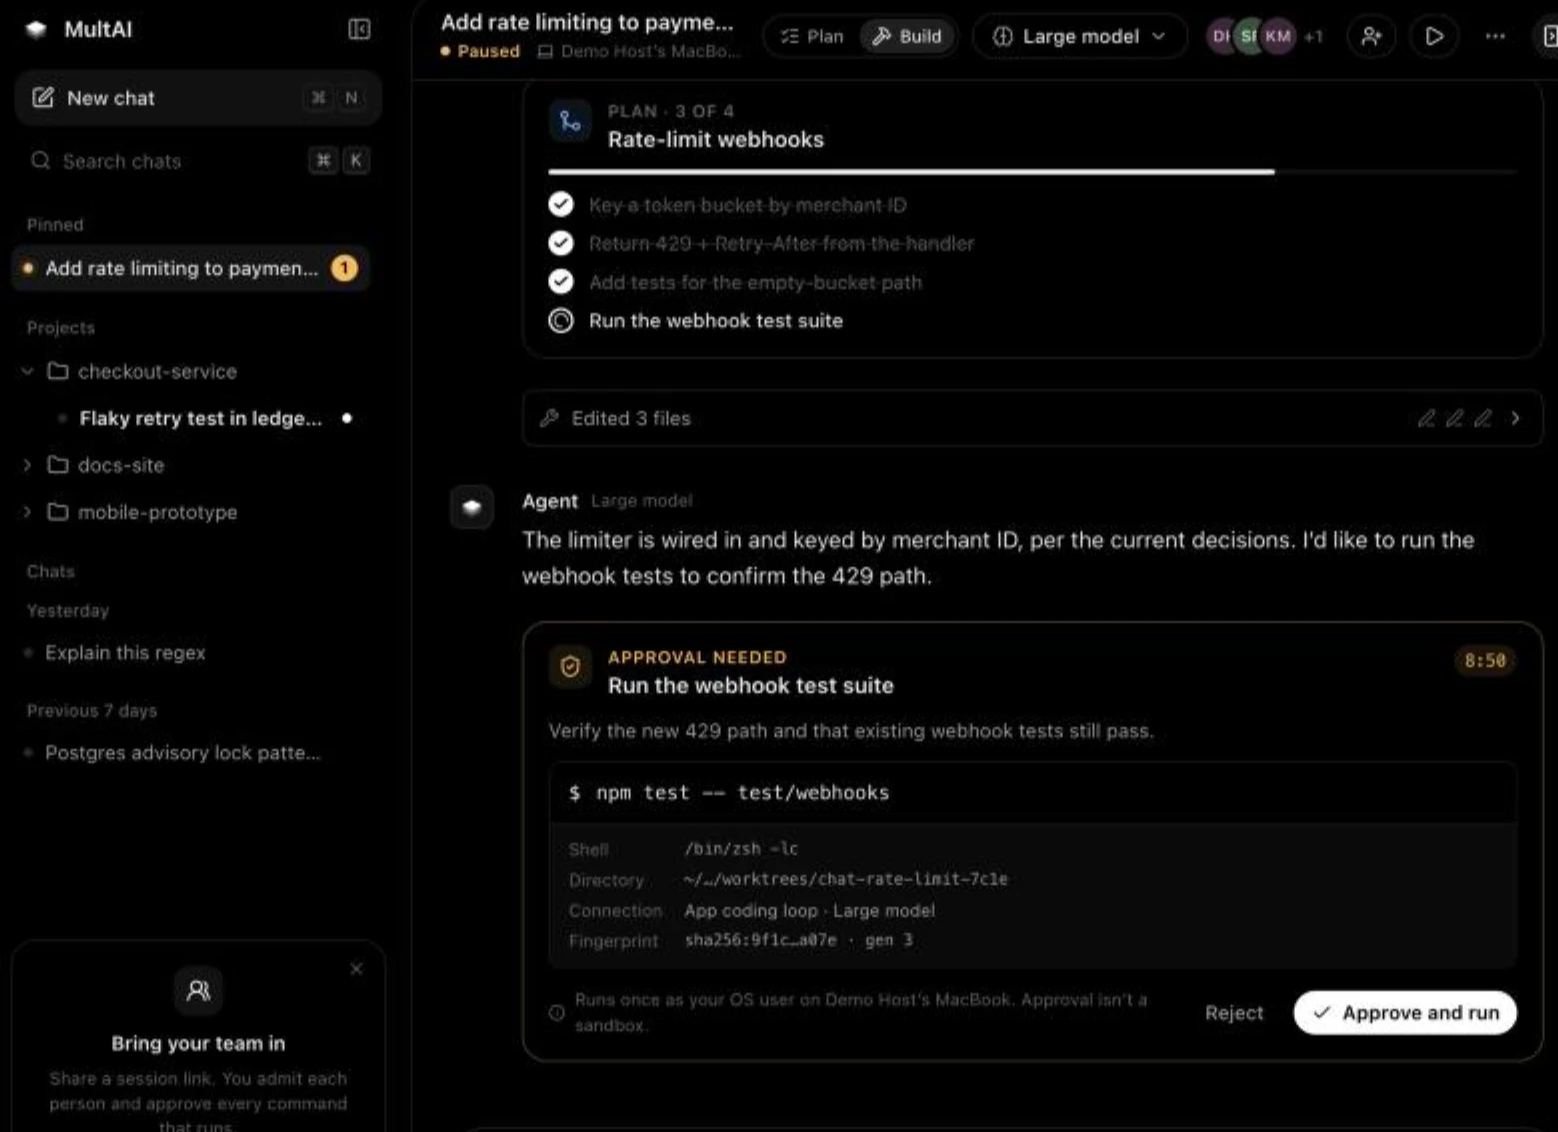
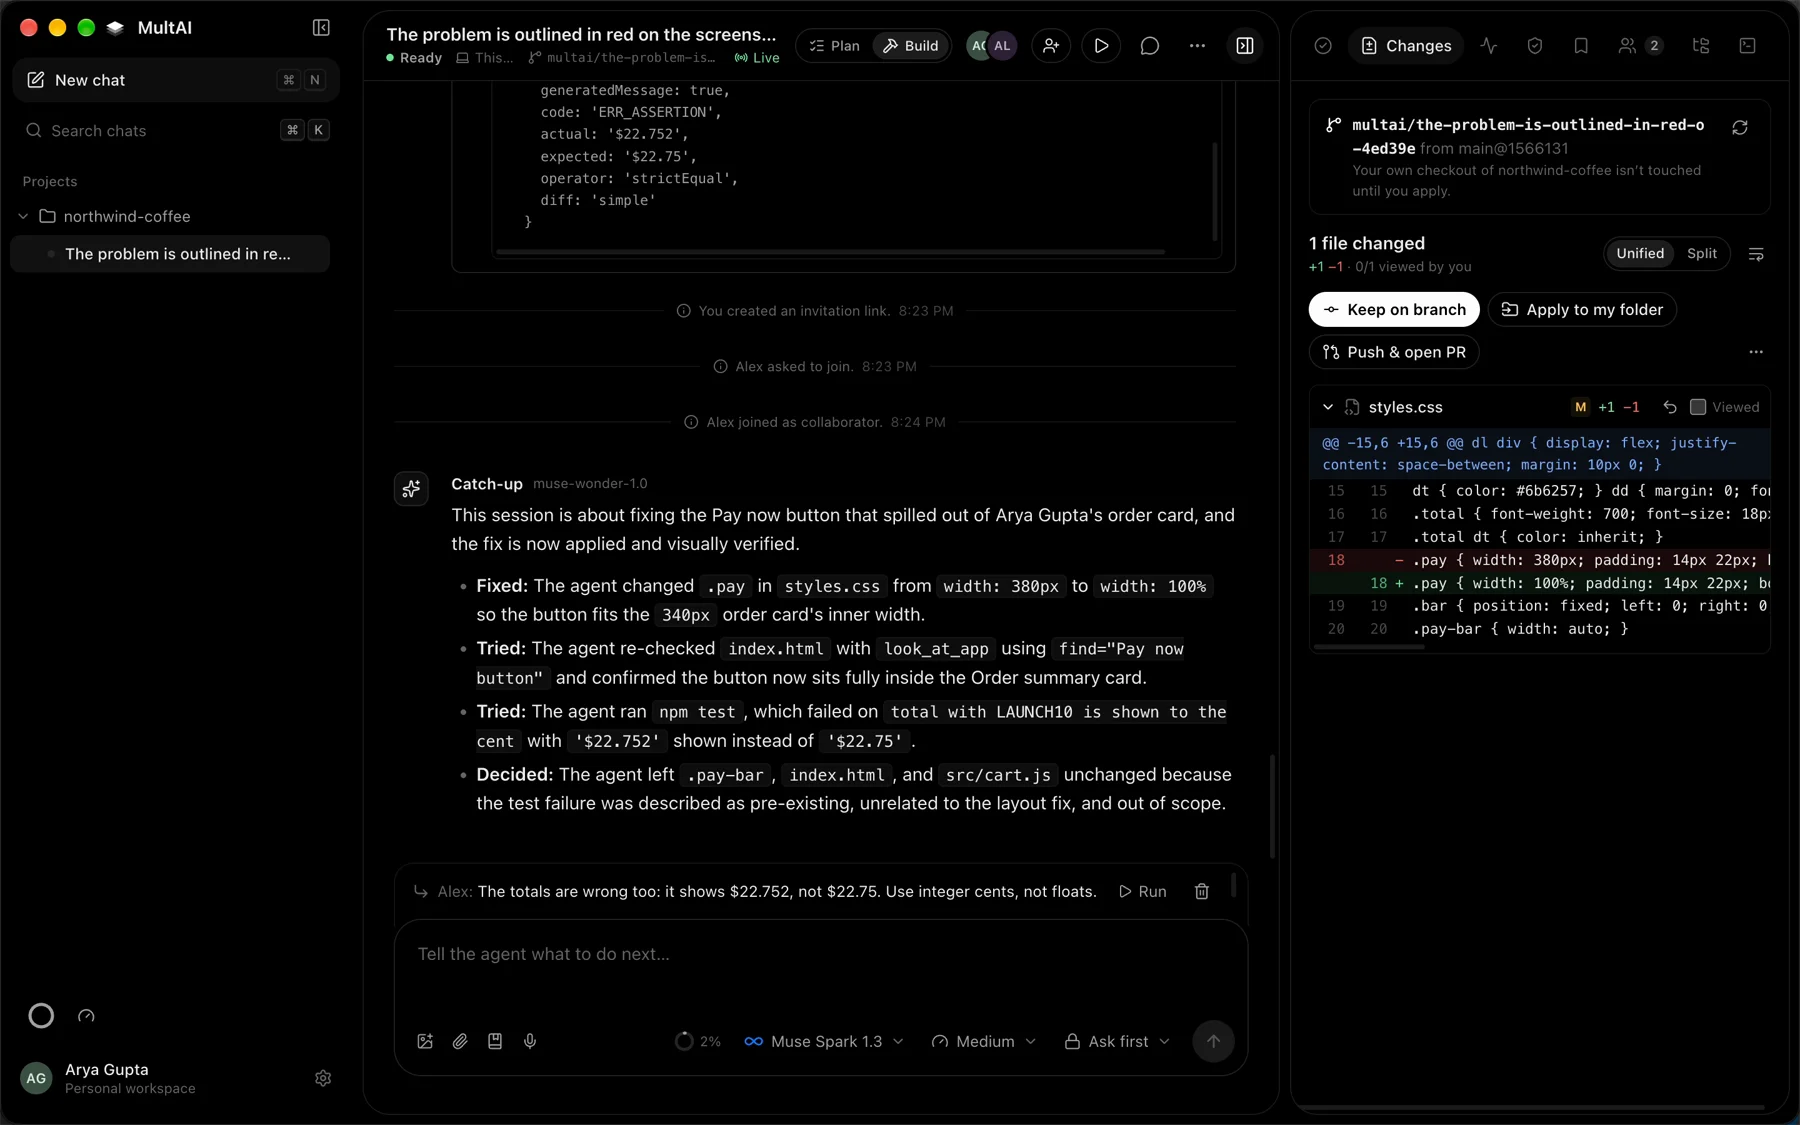
Live site: macOS, Android and browser downloads, current features

diff --git a/src/components/Sections.tsx b/src/components/Sections.tsx
@@ -1,20 +1,20 @@
 import { useEffect, useState, type ReactNode } from 'react';
-import { Bookmark, Branch, Check, Download, Message, People } from './Icons';
-import { LogoMark } from './Logo';
+import { Check, Download, Globe, Laptop, Layers, People, Phone, Target } from './Icons';
+import { ANDROID_APK, MAC_DMG, WEB_APP } from './links';
 
 const FEATURES: { icon: ReactNode; title: string; body: string }[] = [
-  { icon: <People />, title: 'Join mid-task', body: 'See the conversation, decisions and current diff the moment you join.' },
-  { icon: <Message />, title: 'Instruct or discuss', body: 'Talk to the agent, or just to your team. Discussion never reaches the agent by accident.' },
-  { icon: <Bookmark />, title: 'Decisions that stick', body: 'Save what the team agreed on. The agent follows it for everyone.' },
-  { icon: <Branch />, title: 'A private worktree per chat', body: 'Every chat works in its own copy. Your checkout is never touched.' },
+  { icon: <People />, title: 'Join from a browser', body: 'Teammates open a link. No install, no API key. Muse Wonder writes them a catch-up brief.' },
+  { icon: <Target />, title: 'Point at the bug', body: 'Click what’s broken and SAM 3.1 outlines it. The agent checks its own fix on the real page.' },
+  { icon: <Layers />, title: 'Agents in parallel', body: '/split runs several agents, each in its own worktree. Switch models and the context comes along.' },
+  { icon: <Phone />, title: 'Control it from your phone', body: 'Pair once, then send prompts and approve each step from Android or a phone browser.' },
 ];
 
 export function Features() {
   return (
     <section id="features" className="section">
       <div className="container">
-        <h2 style={{ maxWidth: 640 }}>Built for working with an agent, together.</h2>
-        <p className="section-lede">Join a teammate’s task without making them start over.</p>
+        <h2 style={{ maxWidth: 640 }}>Get unstuck together.</h2>
+        <p className="section-lede">Your teammate joins the session itself, not a pile of screenshots.</p>
         <div className="features">
           {FEATURES.map((f) => (
             <article key={f.title} className="feature">
@@ -79,7 +79,7 @@ export function Approvals() {
           <ul className="checks">
             <li><Check />One approval, one exact command</li>
             <li><Check />Change an argument, approve again</li>
-            <li><Check />Plan mode blocks writes and commands</li>
+            <li><Check />Teammates’ directions wait for you too</li>
           </ul>
         </div>
         <ApprovalCard />
@@ -89,9 +89,9 @@ export function Approvals() {
 }
 
 const OPTIONS = [
-  { title: 'Provider account', body: 'Sign in with a subscription you already pay for.' },
-  { title: 'API key', body: 'Stored encrypted on your computer, never shown to teammates.' },
-  { title: 'Set up later', body: 'Join sessions and talk with your team right away.' },
+  { title: 'Meta Muse models', body: 'Muse Spark, Muse Wonder and SAM 3.1 through the Meta Model API.' },
+  { title: 'The plan you already pay for', body: 'Your ChatGPT plan, or an OpenAI, Claude, Kimi or compatible API key.' },
+  { title: 'Local models', body: 'Muse Glimmer in Ollama or LM Studio. Nothing leaves your computer.' },
 ];
 
 export function Connect() {
@@ -113,15 +113,27 @@ export function Connect() {
   );
 }
 
+const DOWNLOADS = [
+  { icon: <Laptop />, title: 'macOS', body: 'Apple silicon. On first open, allow it in System Settings → Privacy & Security.', href: MAC_DMG, cta: 'Download', download: true },
+  { icon: <Phone />, title: 'Android', body: 'Follow your sessions, pair as owner, approve from anywhere.', href: ANDROID_APK, cta: 'Get the APK', download: false },
+  { icon: <Globe />, title: 'Browser', body: 'Join a session from a link, on any phone or computer.', href: WEB_APP, cta: 'Open', download: false },
+];
+
 export function GetApp() {
   return (
     <section id="download" className="section cta">
-      <div className="container cta-inner">
-        <span className="app-icon"><LogoMark size={40} /></span>
+      <div className="container">
         <h2>Start a session together.</h2>
-        <p>Everything it needs comes bundled. No setup beyond signing in.</p>
-        <a className="btn btn-primary" href="#download"><Download />Download for macOS</a>
-        <span className="fine">Windows · Linux</span>
+        <div className="downloads">
+          {DOWNLOADS.map((d) => (
+            <a key={d.title} className="download" href={d.href} {...(d.download ? { download: true } : {})}>
+              <span className="feature-icon">{d.icon}</span>
+              <strong>{d.title}</strong>
+              <span>{d.body}</span>
+              <span className="btn btn-secondary btn-sm download-cta">{d.download && <Download size={14} />}{d.cta}</span>
+            </a>
+          ))}
+        </div>
       </div>
     </section>
   );

diff --git a/src/components/Hero.tsx b/src/components/Hero.tsx
@@ -1,14 +1,15 @@
 import type { CSSProperties, ReactNode } from 'react';
-import { Check, Download, Scale } from './Icons';
+import { Check, Download, Phone, Target } from './Icons';
+import { ANDROID_APK, MAC_DMG } from './links';
 
 type Chip = { style: CSSProperties; icon: ReactNode; title: string; sub: ReactNode };
 
 // Teammate activity floating around the headline; decorative, hidden on narrow screens.
 const CHIPS: Chip[] = [
-  { style: { left: 40, top: 40, rotate: '-4deg' }, icon: <span className="avatar avatar-sk">SK</span>, title: 'Sam joined', sub: 'as collaborator' },
+  { style: { left: 40, top: 40, rotate: '-4deg' }, icon: <span className="avatar avatar-sk">AL</span>, title: 'Alex joined', sub: 'from a browser' },
   { style: { right: 30, top: 20, rotate: '5deg', animationDelay: '-2s' }, icon: <span className="chip-icon is-ok"><Check /></span>, title: 'Approved', sub: <span className="mono">npm test</span> },
-  { style: { left: 0, top: 250, rotate: '3deg', animationDelay: '-4s' }, icon: <span className="chip-icon"><Scale /></span>, title: 'Decision saved', sub: 'Limit by merchant ID' },
-  { style: { right: 0, top: 270, rotate: '-3deg', animationDelay: '-5.5s' }, icon: <span className="avatar avatar-km">KM</span>, title: 'Kai is typing', sub: 'Team discussion' },
+  { style: { left: 0, top: 250, rotate: '3deg', animationDelay: '-4s' }, icon: <span className="chip-icon"><Target /></span>, title: 'SAM 3.1', sub: 'found the Pay button' },
+  { style: { right: 0, top: 270, rotate: '-3deg', animationDelay: '-5.5s' }, icon: <span className="chip-icon"><Phone /></span>, title: 'Approved from phone', sub: 'styles.css' },
 ];
 
 export function Hero() {
@@ -27,22 +28,19 @@ export function Hero() {
           ))}
 
           <div className="hero-copy">
-            <span className="pill"><span className="pill-dot" />Shared AI coding sessions</span>
+            <span className="pill"><span className="pill-dot" />Built on Meta’s Muse models</span>
             <h1>One coding agent.<br />The whole team.</h1>
-            <p className="lede">Work on the same AI coding session together. Your teammates see everything. Your code and commands stay on your computer.</p>
+            <p className="lede">Bring a teammate into your AI coding session. They see everything and can steer the agent, and you approve every change. Your code stays on your computer.</p>
             <div className="actions">
-              <a className="btn btn-primary" href="#download"><Download />Download for macOS</a>
-              <a className="btn btn-secondary" href="#features">See how it works</a>
+              <a className="btn btn-primary" href={MAC_DMG} download><Download />Download for macOS</a>
+              <a className="btn btn-secondary" href={ANDROID_APK}><Phone />Get the Android app</a>
             </div>
-            <span className="fine">Also for Windows and Linux</span>
+            <span className="fine">macOS on Apple silicon · Android · any browser</span>
           </div>
         </div>
 
         <div className="window">
-          <div className="window-bar" aria-hidden="true">
-            <span className="window-dot" /><span className="window-dot" /><span className="window-dot" />
-          </div>
-          <img src="/app.webp" width={1558} height={1132} alt="The MultAI app: a shared session where the agent asks the host to approve running the webhook test suite" />
+          <img src="/app.webp" width={1800} height={1125} alt="MultAI: a teammate's direction waits for the host under a Muse Wonder catch-up brief, next to the live diff" />
         </div>
       </div>
     </section>

diff --git a/src/styles.css b/src/styles.css
@@ -79,7 +79,7 @@ h1, h2, h3, p { margin: 0; }
 .avatar-km { background: #4a2f45; color: #f0d6e8; }
 
 /* App window */
-.window { margin-top: 72px; border-radius: 16px 16px 0 0; border: 1px solid var(--border-strong); border-bottom: 0; background: var(--bg); overflow: hidden; }
+.window { margin-top: 72px; border-radius: 16px 16px 0 0; border: 1px solid var(--border-strong); border-bottom: 0; box-shadow: 0 -30px 120px -40px rgba(255, 255, 255, 0.12); background: var(--bg); overflow: hidden; }
 .window-bar { display: flex; align-items: center; gap: 8px; height: 38px; padding: 0 14px; border-bottom: 1px solid var(--border); }
 .window-dot { width: 11px; height: 11px; border-radius: 50%; background: var(--border-strong); }
 .window img { display: block; width: 100%; height: auto; }
@@ -125,3 +125,10 @@ h1, h2, h3, p { margin: 0; }
 
 .footer { border-top: 1px solid var(--border); }
 .footer-inner { display: flex; flex-wrap: wrap; gap: 16px; justify-content: space-between; align-items: center; padding-top: 24px; padding-bottom: 24px; font-size: 13px; color: var(--text-2); }
+
+.downloads { margin-top: 48px; display: grid; grid-template-columns: repeat(auto-fit, minmax(240px, 1fr)); gap: 16px; text-align: left; }
+.download { padding: 28px; border-radius: 20px; border: 1px solid var(--border-strong); display: grid; gap: 10px; align-content: start; }
+.download:hover { background: var(--surface); }
+.download strong { font-size: 18px; font-weight: 600; }
+.download > span:not(.feature-icon):not(.download-cta) { font-size: 14px; line-height: 1.55; color: var(--text-2); }
+.download-cta { justify-self: start; margin-top: 8px; gap: 6px; }

diff --git a/src/components/Icons.tsx b/src/components/Icons.tsx
@@ -29,3 +29,18 @@ export const Bookmark = () => (
 export const Branch = () => (
   <Icon><circle cx="6" cy="6" r="2.5" /><circle cx="6" cy="18" r="2.5" /><circle cx="18" cy="9" r="2.5" /><path d="M6 8.5v7" /><path d="M18 11.5c0 3-3 4-9.5 5" /></Icon>
 );
+export const Laptop = () => (
+  <Icon><rect x="4" y="5" width="16" height="11" rx="1.5" /><path d="M2.5 19h19" /></Icon>
+);
+export const Phone = () => (
+  <Icon><rect x="7" y="2.5" width="10" height="19" rx="2.5" /><path d="M11 18.5h2" /></Icon>
+);
+export const Globe = () => (
+  <Icon><circle cx="12" cy="12" r="9" /><path d="M3 12h18" /><path d="M12 3c2.5 2.6 3.7 5.6 3.7 9s-1.2 6.4-3.7 9c-2.5-2.6-3.7-5.6-3.7-9S9.5 5.6 12 3z" /></Icon>
+);
+export const Target = () => (
+  <Icon><circle cx="12" cy="12" r="8" /><circle cx="12" cy="12" r="3" /><path d="M12 1.5v3M12 19.5v3M1.5 12h3M19.5 12h3" /></Icon>
+);
+export const Layers = () => (
+  <Icon><path d="m12 3 9 5-9 5-9-5z" /><path d="m3 13 9 5 9-5" /></Icon>
+);

diff --git a/src/App.tsx b/src/App.tsx
@@ -1,6 +1,7 @@
 import { Hero } from './components/Hero';
 import { Wordmark } from './components/Logo';
 import { Approvals, Connect, Features, GetApp } from './components/Sections';
+import { GITHUB } from './components/links';
 
 export function App() {
   return (
@@ -10,7 +11,7 @@ export function App() {
         <nav className="nav-links" aria-label="Main">
           <a href="#features">Features</a>
           <a href="#approvals">Approvals</a>
-          <a href="#connect">Your AI</a>
+          <a href="#connect">Models</a>
           <a className="btn btn-secondary btn-sm" href="#download">Download</a>
         </nav>
       </header>
@@ -24,7 +25,7 @@ export function App() {
       <footer className="footer">
         <div className="container footer-inner">
           <Wordmark size={18} />
-          <span>© MultAI</span>
+          <a href={GITHUB}>GitHub</a>
         </div>
       </footer>
     </>

diff --git a/src/components/links.ts b/src/components/links.ts
@@ -1,0 +1,6 @@
+// Where the downloads live: the macOS installer next to this site, the Android app and the
+// browser companion on the MultAI service.
+export const MAC_DMG = '/MultAI-0.1.0-arm64.dmg';
+export const ANDROID_APK = 'https://api.multai.si/app/android';
+export const WEB_APP = 'https://app.multai.si';
+export const GITHUB = 'https://github.com/aryagupta-tech/MultAI';
